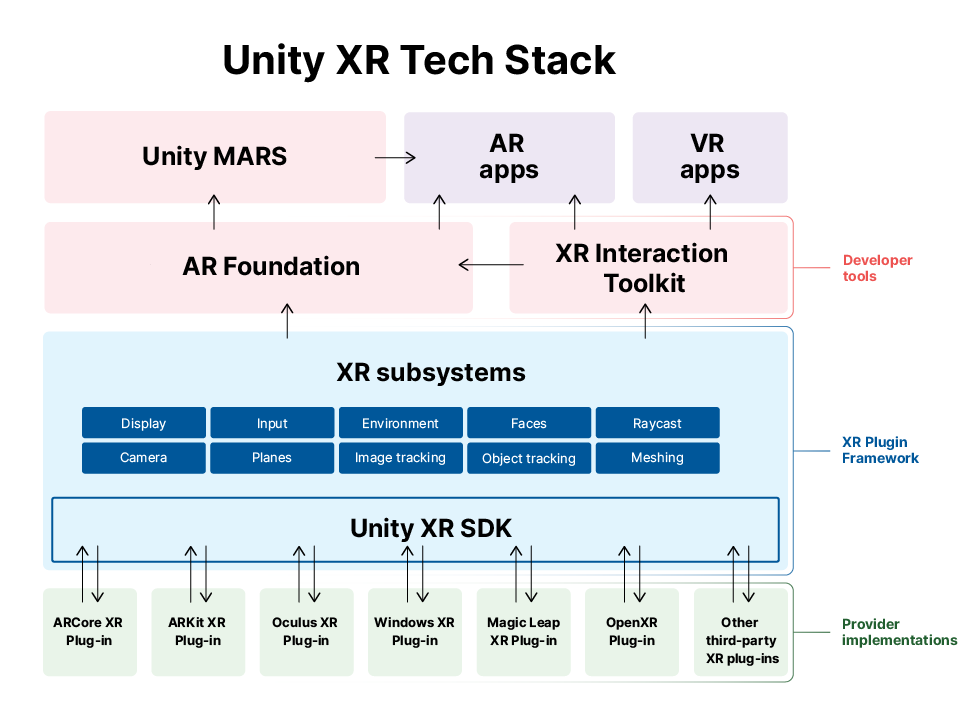
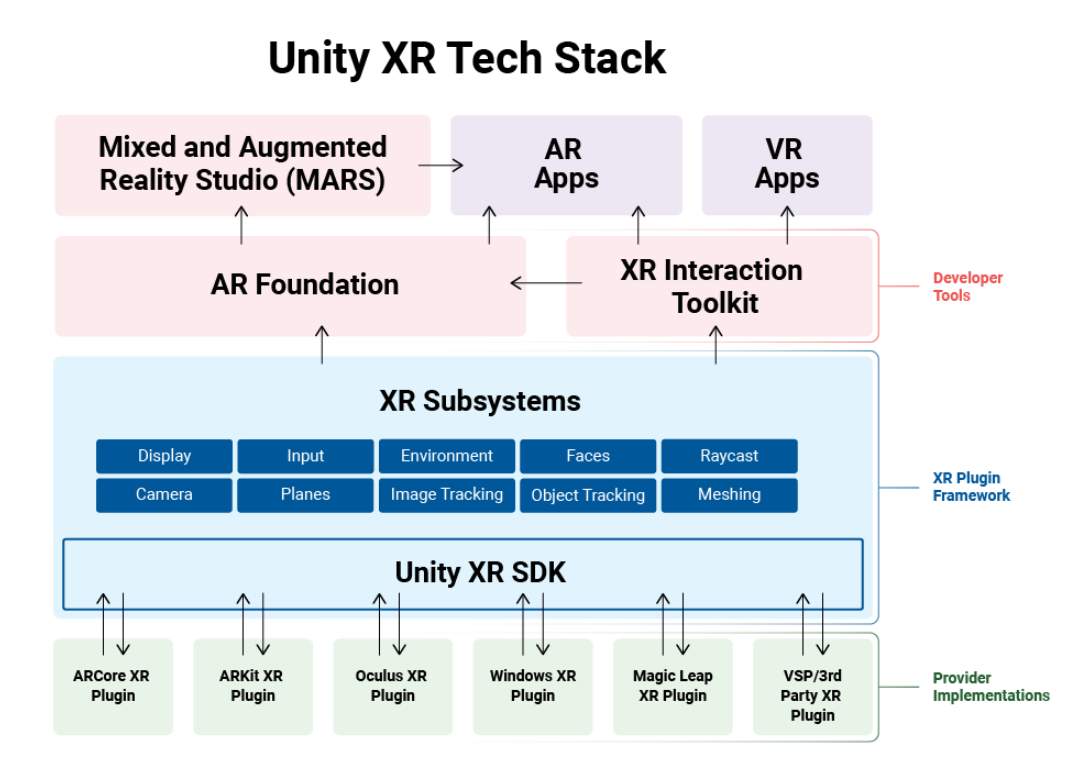
Updated readme and added some pics

diff --git a/README.md b/README.md
@@ -1,11 +1,18 @@
 # XRCube
-This is Unity base project for XR development. Not rocket science at the moment, but hopefully in the future (check "OtherMaterials/Documentation"-folder for system description pics). 
 
+## General
+This is Unity base project for XR development. Not rocket science at the moment, but you should check "OtherMaterials/Documentation"-folder for the future (system description pics etc.)
+
+## Current state and setup
 It is currently possible to build for PC both SteamVR and Oculus SDK (Not Quest standalone at the moment). Just plug and play! (Ok, you have to select "01Construct" scene from "Scenes"-folder). These are tested with Oculus Quest via Oculus Link (other devices are not yet tested)
 
-This project is open source and that's why all third-party assets are not used. But of course I use awsome third-party assets when I create realities with this base. More info can be found: https://wusakko.com/xrcube
+## Install for the devices
+Protoversion (XRCube v0.3) of this project can be tested as Quest standalone build (.apk): https://urly.fi/1VJY XRCube related videos and list of created realities can be found https://wusakko.com/xrcube
 
-Protoversion (XRCube v0.3) of this project can be tested as Quest standalone build (.apk): https://urly.fi/1VJY
+## (Tech) choices
+This project is open source and that's why there are no third-party assets used. As you can see from "XRCubeTechTree"-file (*1), OpenXR also be used for web developent via WebXR. I think web browsers are not currently ready for immersive XR developemnt and that's why I use Unity game-engine. Don't you play games in your browser either?
+
+
 
 
 
